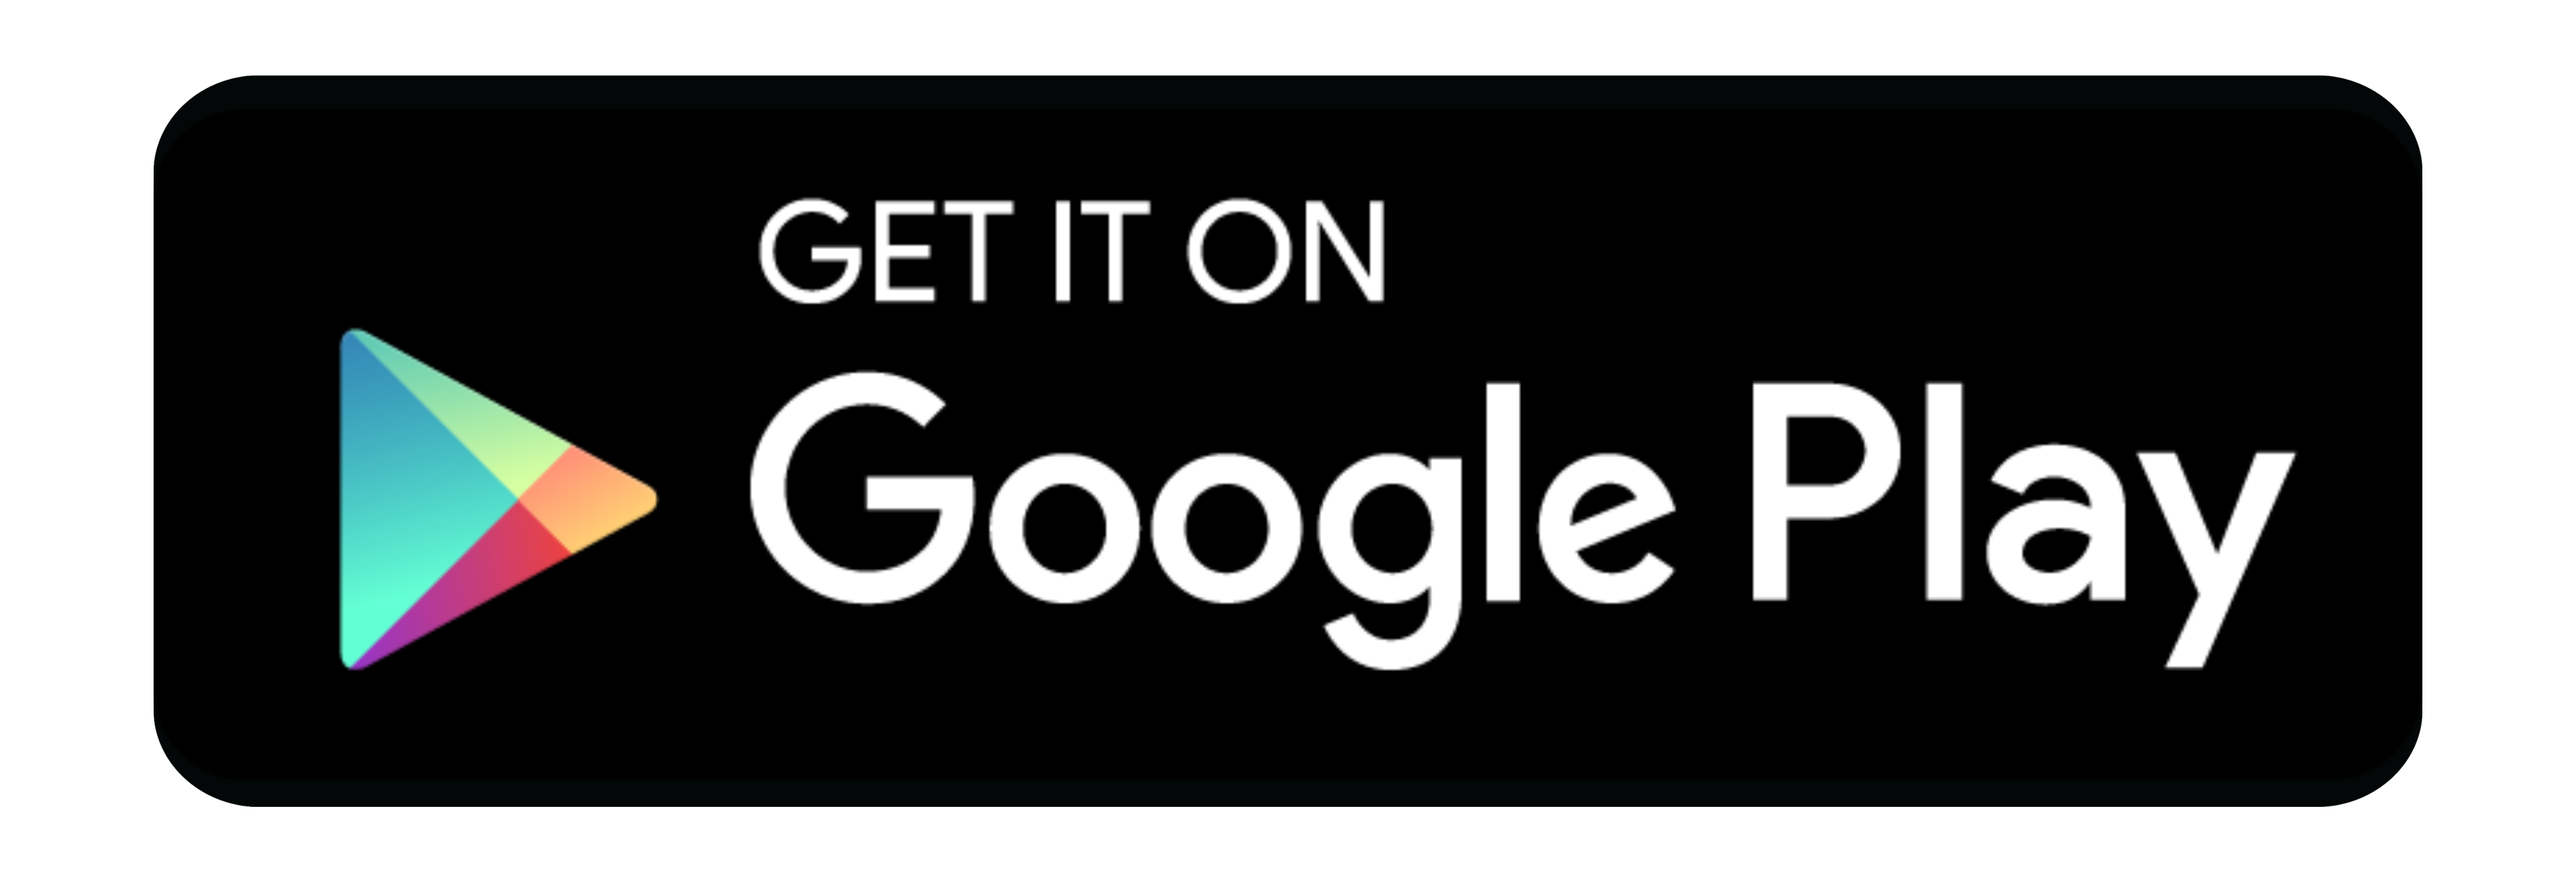
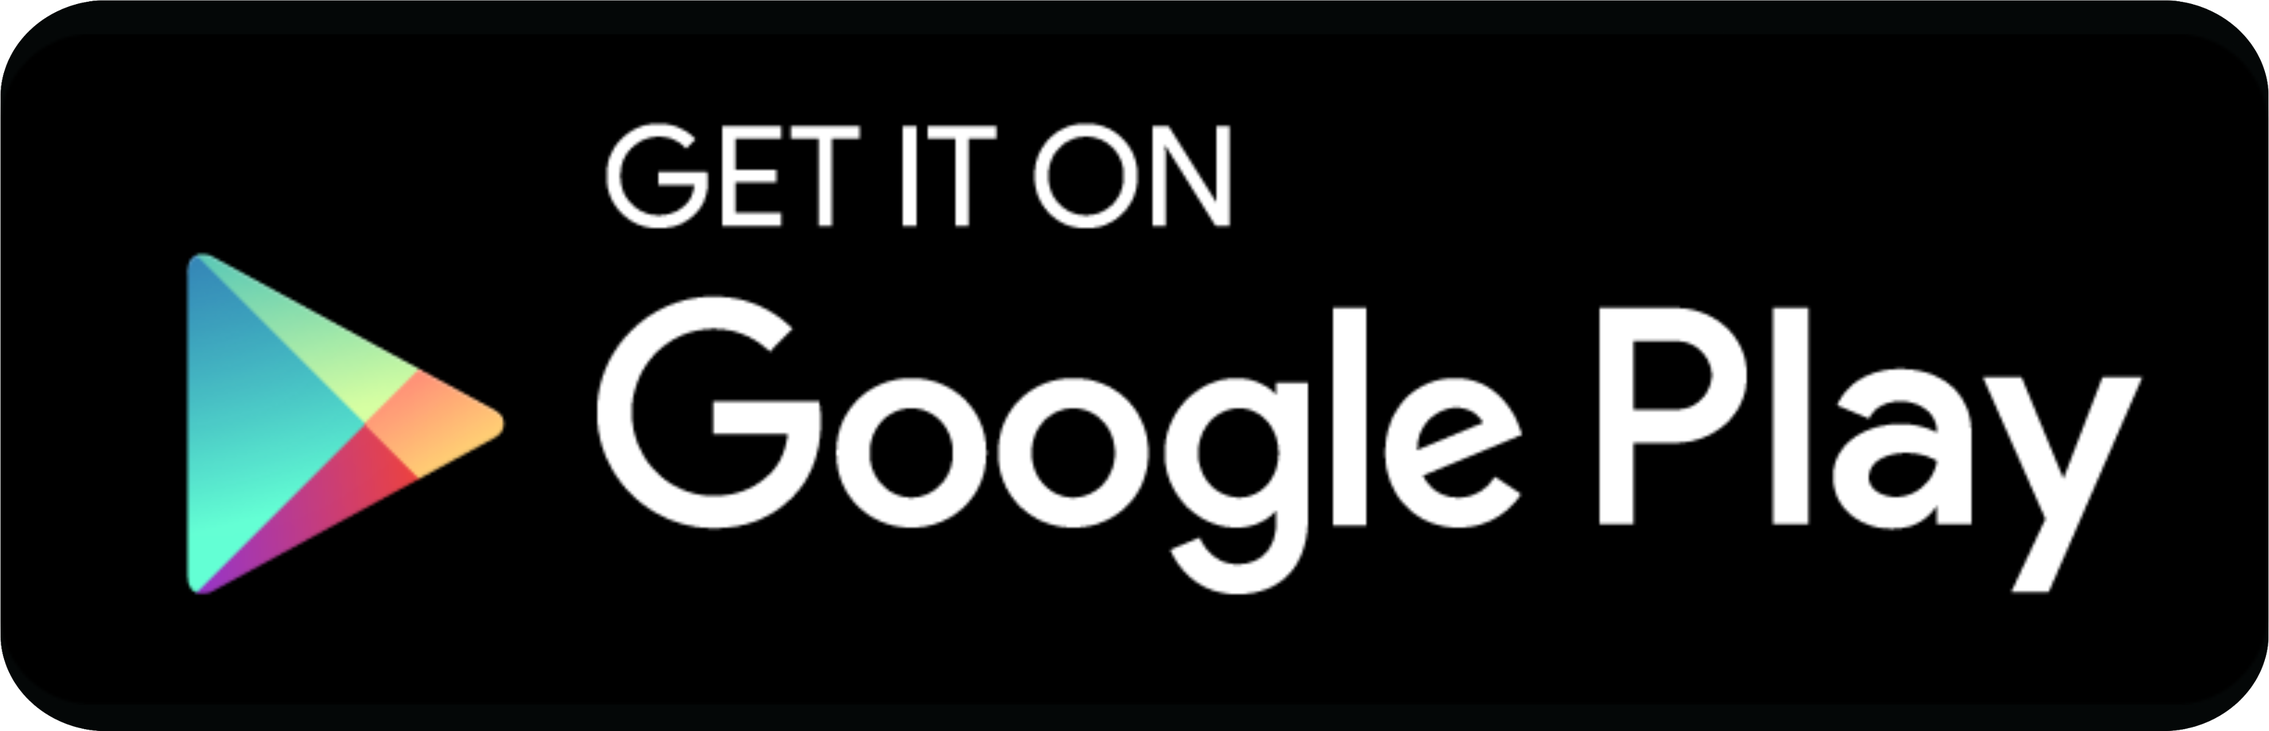
final details

diff --git a/index.html b/index.html
@@ -30,7 +30,7 @@
         </div>
         <div id="get">
           <p>Get the App</p>
-          <button id="ios"><img class="ios" src="./assets/app-store.png" /></button>
+          <button id="ios"><img class="ios" src="./assets/app-store.jpg" /></button>
           <button id="ios"><img class="android" src="./assets/googleplay-store.png" /></button>
         </div>
       </div>

diff --git a/style.css b/style.css
@@ -41,13 +41,14 @@
 }
 
 .ios {
-    width: 150px;
+    width: 170px;
     height: 50px;
 }
 
 .android {
     width: 170px;
-   
+    height: 50px;
+
 }
 
 input {
